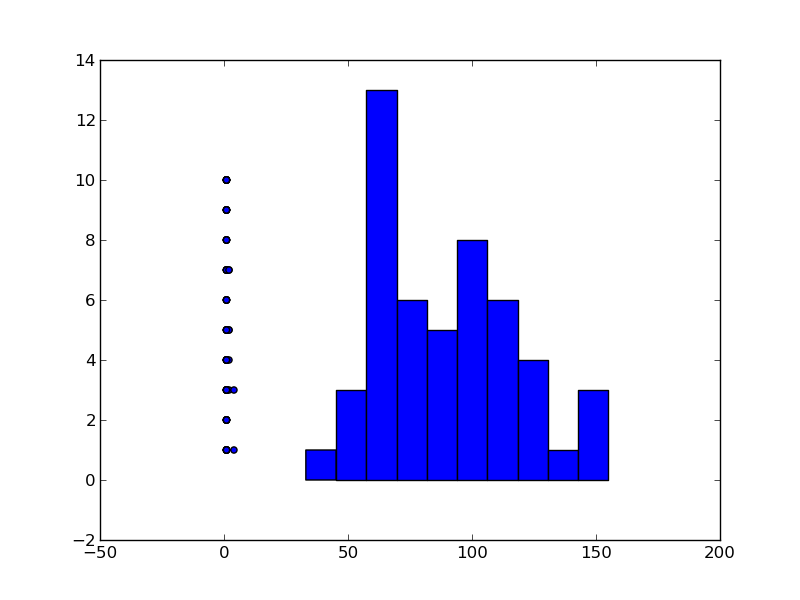
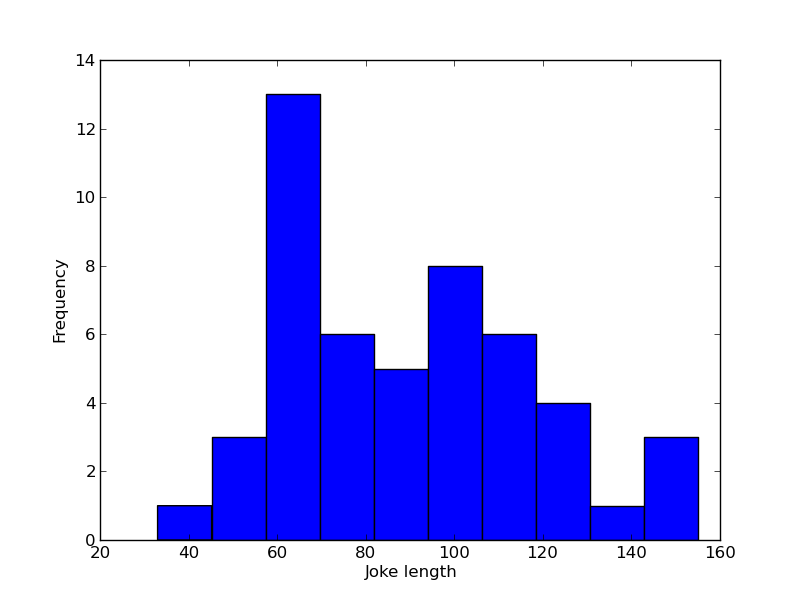
Some more work needed on nltk

diff --git a/analysisanddata.py b/analysisanddata.py
@@ -3,6 +3,7 @@
 File for analysis of joke data from Edinburgh Fringe festival. These jokes and rankings taken from BBC website.
 """
 import matplotlib.pyplot as plt
+from pylab import polyfit, poly1d
 
 jd = [
         [2013, 'Rob Auton', 1, "I heard a rumour that Cadbury is bringing out an oriental chocolate bar. Could be a Chinese Wispa."],
@@ -101,6 +102,7 @@ if __name__ == '__main__':
     plt.figure
     plt.scatter(x, y)
     plt.savefig('nbrofjokesvrank.png')
+    plt.close()
 
     # Get mean min rank vs number of jokes
     nbrofjokesvmean = []
@@ -113,9 +115,56 @@ if __name__ == '__main__':
     plt.figure
     plt.scatter(x, y)
     plt.savefig('nbrofjokesvmean.png')
+    plt.close()
+
+    # Get box plot of mean rank by number of jokes
+    boxes = [[] for e in range(max([len(authorsdict[author].jokes) for author in authorsdict]))]
+    for author in authorsdict:
+        a = authorsdict[author]
+        boxes[len(a.jokes) - 1].append(mean([j[0] for year in a.jokes for j in a.jokes[year] ]))
+    plt.figure
+    plt.boxplot(boxes)
+    plt.xlabel('Number of jokes')
+    plt.ylabel('Mean rank')
+    plt.savefig('boxplotofmeanrankvnbrofjokes.png')
+    plt.close()
+
+    # Get box plot of min rank by number of jokes
+    boxes = [[] for e in range(max([len(authorsdict[author].jokes) for author in authorsdict]))]
+    for author in authorsdict:
+        a = authorsdict[author]
+        boxes[len(a.jokes) - 1].append(min([j[0] for year in a.jokes for j in a.jokes[year] ]))
+    plt.figure
+    plt.boxplot(boxes)
+    plt.xlabel('Number of jokes')
+    plt.ylabel('Min rank')
+    plt.savefig('boxplotofminrankvnbrofjokes.png')
+    plt.close()
+
 
     # Get histogram of length of jokes
     jokelengths = [len(joke.joke) for joke in jokeslist]
     plt.figure
     plt.hist(jokelengths)
+    plt.xlabel('Joke length')
+    plt.ylabel('Frequency')
     plt.savefig('histofjokelengths.png')
+    plt.close()
+
+    # Get scatter plot of joke rank vs length of joke
+    x = []
+    y = []
+    for joke in jokeslist:
+        x.append(len(joke.joke))
+        y.append(joke.rank)
+    fit = polyfit(x, y, 1)
+    fit_fn = poly1d(fit)
+    plt.figure
+    plt.scatter(x,y)
+    plt.plot(x, [fit_fn(x) for x in x], color='red')
+    plt.xlabel('Joke length')
+    plt.ylabel('Rank')
+    plt.savefig('scatterofrankvlength.png')
+    plt.close()
+
+    # Some natural language processing
